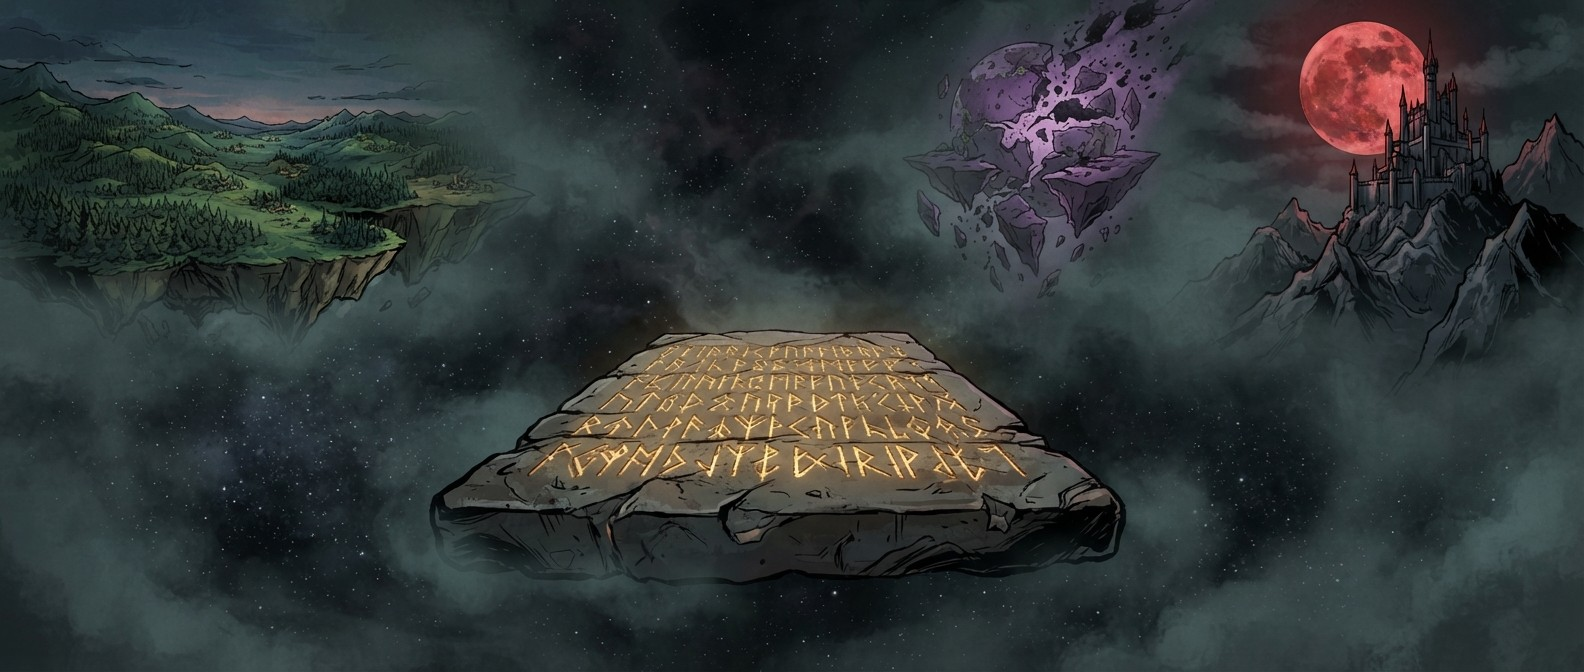
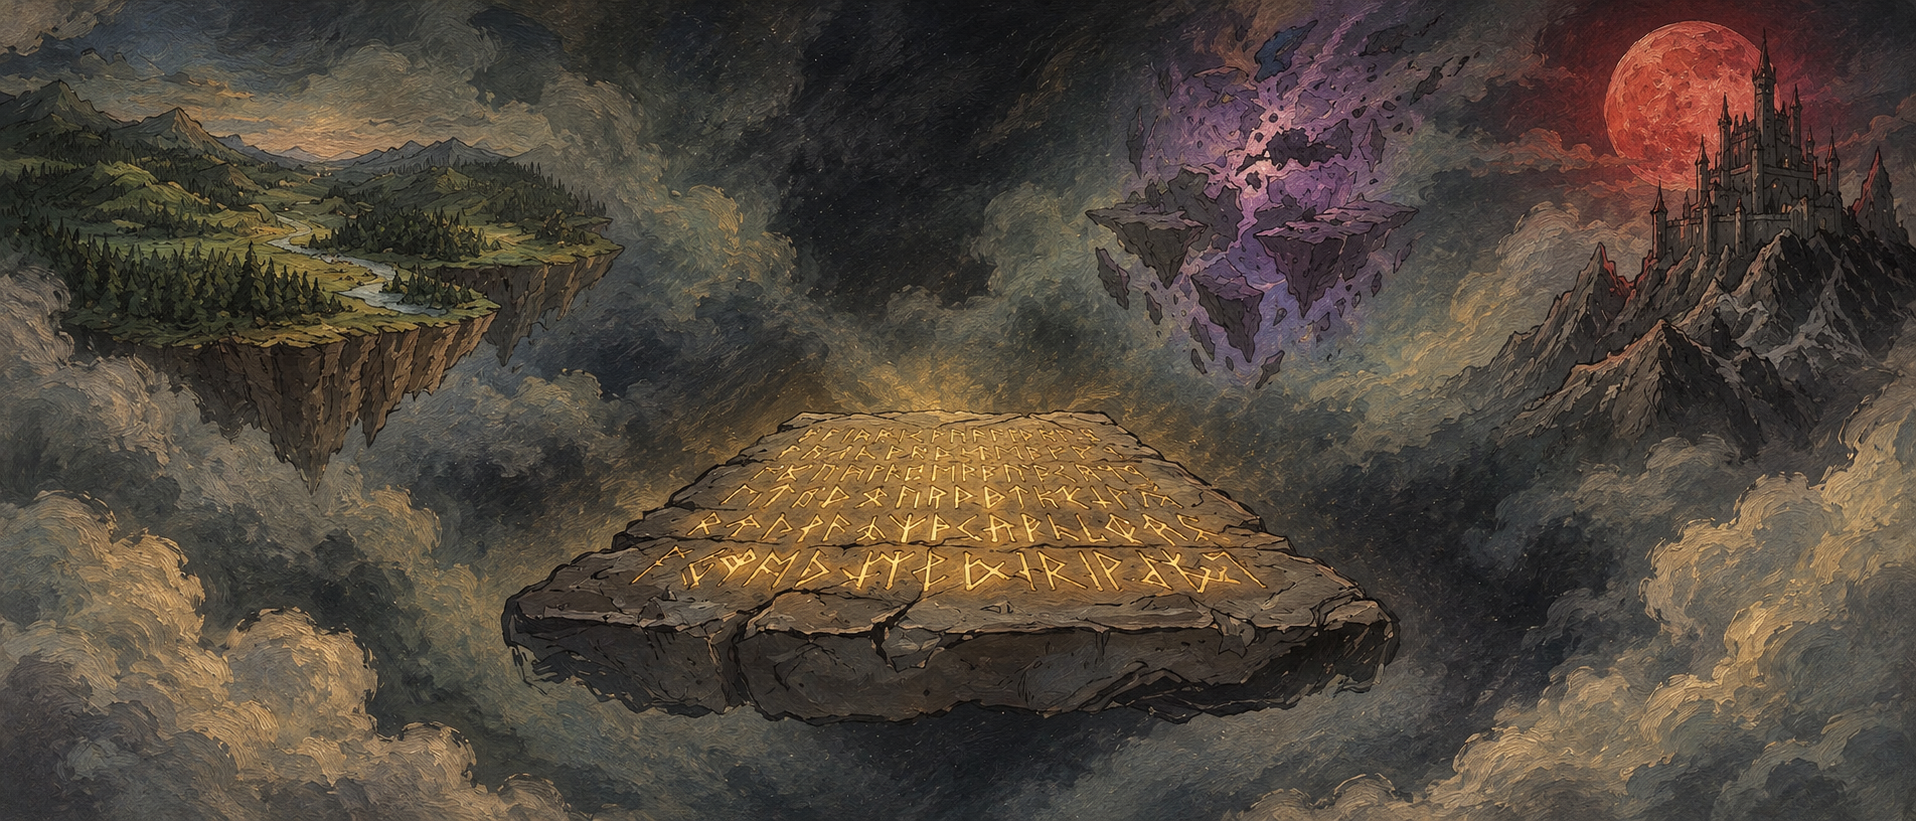
Cutscene: estilo pintado a mao para comparar (?estilo=pintado)

diff --git a/web/cutscene.html b/web/cutscene.html
@@ -37,6 +37,8 @@ html,body{margin:0;height:100%;overflow:hidden;background:#000;color:#fff;font-f
 // mov: desce, sobe, dir, esq, aprox, afasta  (para onde a CÂMERA vai)
 const nome = new URLSearchParams(location.search).get('c') || 'abertura';
 const base = `cutscenes/${nome}/`;
+const estilo = new URLSearchParams(location.search).get('estilo') || '';   // ex.: pintado -> cutscenes/<nome>/pintado/qN.jpg
+const imgDe = arq => base + (estilo ? estilo + '/' : '') + arq;
 const cam = document.getElementById('camera'), leg = document.getElementById('legenda'), blur = document.getElementById('borraoG');
 const VEL = {desce:[0,1], sobe:[0,-1], dir:[1,0], esq:[-1,0], aprox:[0,0], afasta:[0,0]};
 const ESCALA = 1.12, TRANS = 1.9;   // passagem mais longa: acelera e desacelera sem pressa   // folga para a câmera andar; duração da passagem (s)
@@ -110,8 +112,8 @@ fetch(base + 'roteiro.json').then(r => r.json()).then(async roteiro => {
     a.onloadedmetadata = () => { q._fala = a.duration; ok(); }; a.onerror = ok; }) : null));
   if (R.musica){ musica = new Audio(base + R.musica); musica.loop = true; musica.volume = 0; }
   if (R.vento){ vento = new Audio(base + R.vento); vento.preload = 'auto'; }
-  await Promise.all(Q.map(q => new Promise(ok => { const i = new Image(); i.onload = ok; i.onerror = () => { if (q.reserva) q.img = q.reserva; ok(); }; i.src = base + q.img; })));
-  els = Q.map(q => { const d = document.createElement('div'); d.className = 'quadro'; d.style.backgroundImage = `url('${base}${q.img}')`; d.style.display = 'none'; cam.appendChild(d); return d; });
+  await Promise.all(Q.map(q => new Promise(ok => { const i = new Image(); i.onload = ok; i.onerror = () => { if (q.reserva) q.img = q.reserva; ok(); }; i.src = imgDe(q.img); })));
+  els = Q.map(q => { const d = document.createElement('div'); d.className = 'quadro'; d.style.backgroundImage = `url('${imgDe(q.img)}')`; d.style.display = 'none'; cam.appendChild(d); return d; });
   const comecar = () => { if (musica){ musica.play().catch(()=>{}); fadeVol(musica, R.volumeMusica ?? .16, 3000); } document.getElementById('iniciar').style.display = 'none'; els[0].style.display = 'block'; document.getElementById('escuro').style.opacity = 0; quadro(0); requestAnimationFrame(loop); };
   if ((Q.some(q => q.audio) || R.musica) && !navigator.userActivation?.hasBeenActive){ const b = document.getElementById('iniciar'); b.style.display = 'flex'; b.onclick = comecar; } else comecar();
 });
